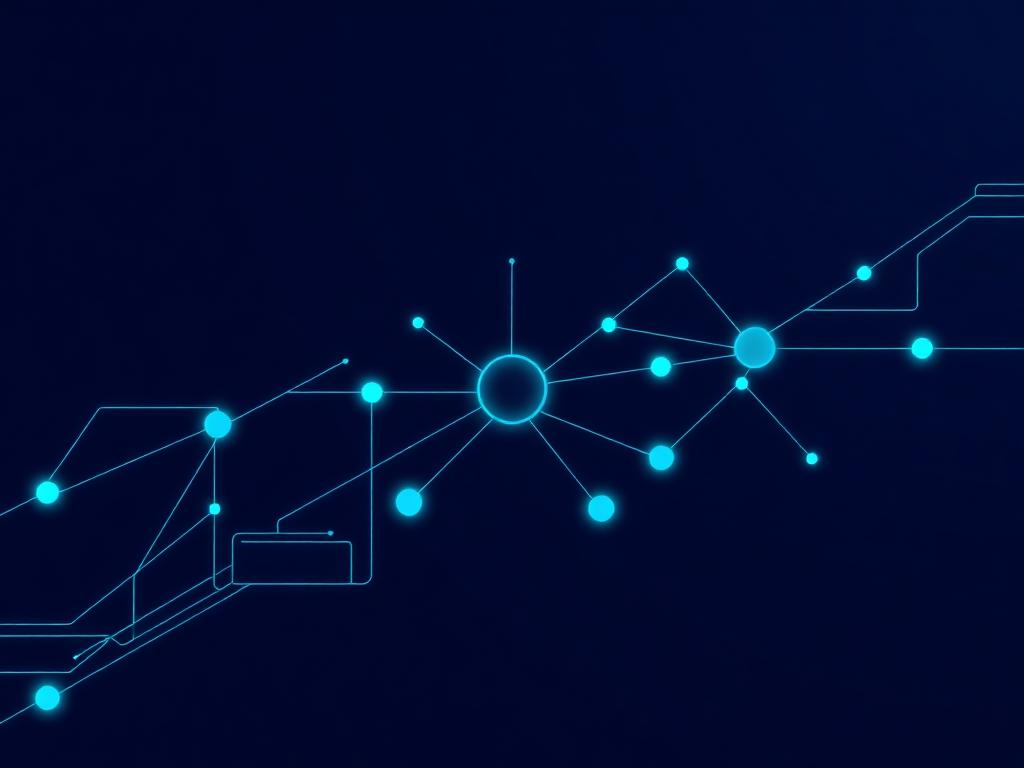
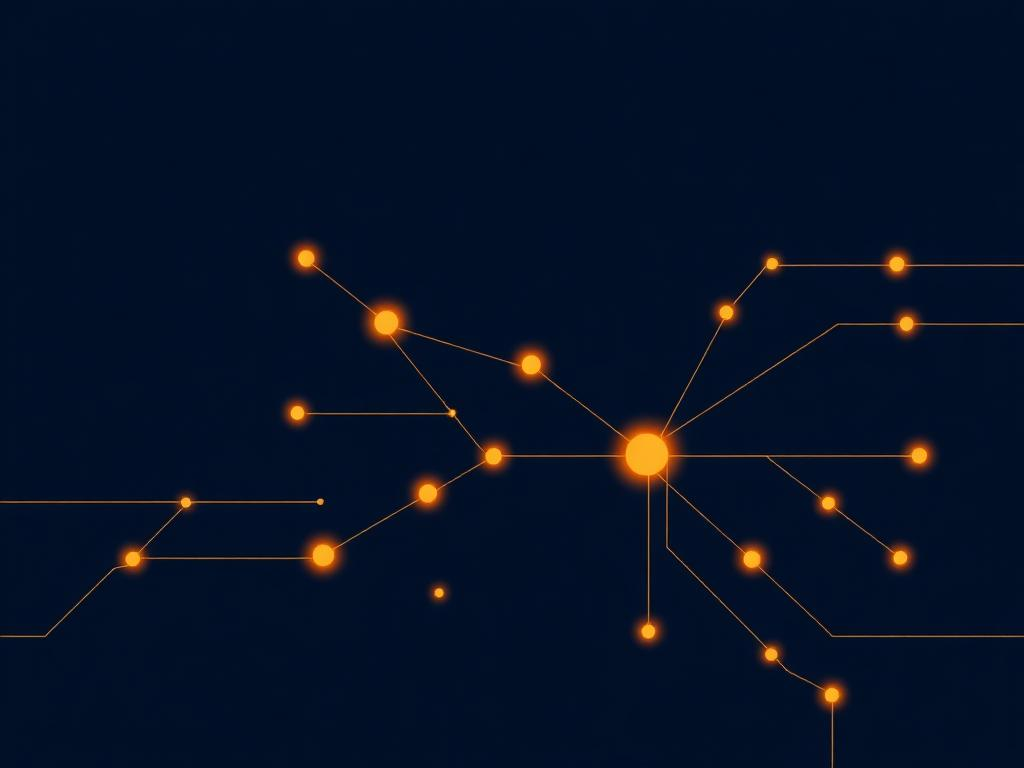
Changes

diff --git a/src/index.css b/src/index.css
@@ -6,54 +6,54 @@
 
 @layer base {
   :root {
-    --background: 220 30% 6%;
-    --foreground: 210 20% 92%;
+    --background: 216 50% 8%;
+    --foreground: 210 25% 92%;
 
-    --card: 220 25% 10%;
-    --card-foreground: 210 20% 92%;
+    --card: 216 45% 11%;
+    --card-foreground: 210 25% 92%;
 
-    --popover: 220 25% 10%;
-    --popover-foreground: 210 20% 92%;
+    --popover: 216 45% 11%;
+    --popover-foreground: 210 25% 92%;
 
-    --primary: 175 80% 45%;
-    --primary-foreground: 220 30% 6%;
+    --primary: 36 90% 55%;
+    --primary-foreground: 216 50% 8%;
 
-    --secondary: 220 20% 16%;
+    --secondary: 216 30% 16%;
     --secondary-foreground: 210 20% 85%;
 
-    --muted: 220 15% 14%;
-    --muted-foreground: 215 12% 55%;
+    --muted: 216 25% 14%;
+    --muted-foreground: 215 15% 52%;
 
-    --accent: 175 80% 45%;
-    --accent-foreground: 220 30% 6%;
+    --accent: 36 90% 55%;
+    --accent-foreground: 216 50% 8%;
 
     --destructive: 0 84% 60%;
     --destructive-foreground: 210 40% 98%;
 
-    --border: 220 15% 18%;
-    --input: 220 15% 18%;
-    --ring: 175 80% 45%;
+    --border: 216 20% 18%;
+    --input: 216 20% 18%;
+    --ring: 36 90% 55%;
 
     --radius: 0.75rem;
 
     --font-display: 'Space Grotesk', sans-serif;
     --font-body: 'Inter', sans-serif;
 
-    --gradient-primary: linear-gradient(135deg, hsl(175 80% 45%), hsl(190 90% 50%));
-    --gradient-card: linear-gradient(145deg, hsl(220 25% 12%), hsl(220 25% 8%));
-    --gradient-hero: radial-gradient(ellipse at 30% 50%, hsl(220 30% 12%) 0%, hsl(220 30% 6%) 70%);
+    --gradient-primary: linear-gradient(135deg, hsl(36 90% 55%), hsl(28 95% 60%));
+    --gradient-card: linear-gradient(145deg, hsl(216 45% 13%), hsl(216 45% 9%));
+    --gradient-hero: radial-gradient(ellipse at 30% 50%, hsl(216 50% 13%) 0%, hsl(216 50% 8%) 70%);
 
-    --shadow-glow: 0 0 30px hsl(175 80% 45% / 0.15);
-    --shadow-card: 0 4px 24px hsl(220 30% 2% / 0.5);
+    --shadow-glow: 0 0 30px hsl(36 90% 55% / 0.15);
+    --shadow-card: 0 4px 24px hsl(216 50% 3% / 0.5);
 
-    --sidebar-background: 220 25% 10%;
+    --sidebar-background: 216 45% 11%;
     --sidebar-foreground: 210 20% 85%;
-    --sidebar-primary: 175 80% 45%;
-    --sidebar-primary-foreground: 220 30% 6%;
-    --sidebar-accent: 220 20% 16%;
+    --sidebar-primary: 36 90% 55%;
+    --sidebar-primary-foreground: 216 50% 8%;
+    --sidebar-accent: 216 30% 16%;
     --sidebar-accent-foreground: 210 20% 85%;
-    --sidebar-border: 220 15% 18%;
-    --sidebar-ring: 175 80% 45%;
+    --sidebar-border: 216 20% 18%;
+    --sidebar-ring: 36 90% 55%;
   }
 }
 

diff --git a/src/components/ui/button.tsx b/src/components/ui/button.tsx
@@ -15,7 +15,7 @@ const buttonVariants = cva(
         secondary: "bg-secondary text-secondary-foreground hover:bg-secondary/80",
         ghost: "hover:bg-accent hover:text-accent-foreground",
         link: "text-primary underline-offset-4 hover:underline",
-        hero: "bg-primary text-primary-foreground hover:bg-primary/90 shadow-[0_0_20px_hsl(175_80%_45%/0.3)] hover:shadow-[0_0_30px_hsl(175_80%_45%/0.4)]",
+        hero: "bg-primary text-primary-foreground hover:bg-primary/90 shadow-[0_0_20px_hsl(36_90%_55%/0.3)] hover:shadow-[0_0_30px_hsl(36_90%_55%/0.4)]",
         heroOutline: "border-2 border-primary/40 text-foreground hover:border-primary hover:bg-primary/10",
       },
       size: {

diff --git a/tailwind.config.ts b/tailwind.config.ts
@@ -81,8 +81,8 @@ export default {
           to: { opacity: "1", transform: "translateY(0)" },
         },
         "pulse-glow": {
-          "0%, 100%": { boxShadow: "0 0 20px hsl(175 80% 45% / 0.15)" },
-          "50%": { boxShadow: "0 0 30px hsl(175 80% 45% / 0.3)" },
+          "0%, 100%": { boxShadow: "0 0 20px hsl(36 90% 55% / 0.15)" },
+          "50%": { boxShadow: "0 0 30px hsl(36 90% 55% / 0.3)" },
         },
       },
       animation: {
